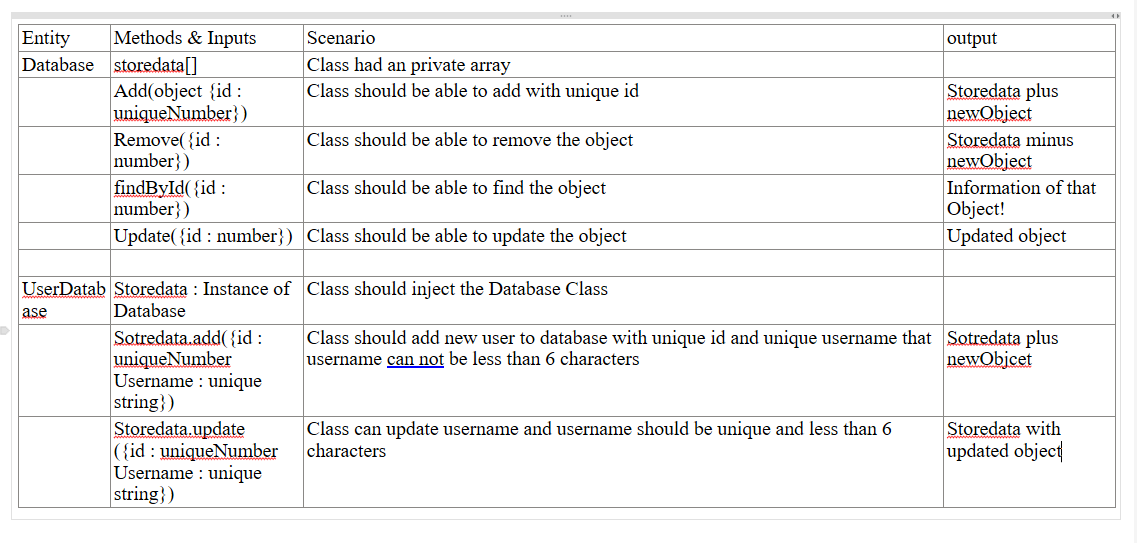
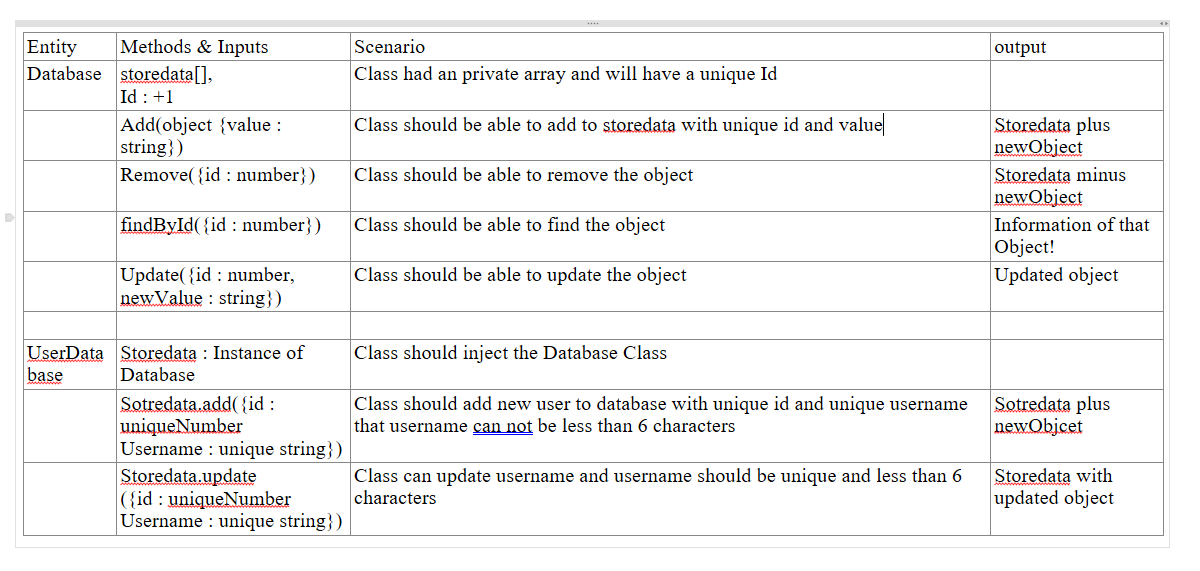
domain model updated!

Changed region(s): [[0.0, 0.0, 0.985, 0.9429]]

diff --git a/src/database.js b/src/database.js
@@ -57,15 +57,15 @@ class Database {
 
 export { Database }
 
-const mydata = new Database()
+// const mydata = new Database()
 
-mydata.add('farshad')
-mydata.add('will')
-mydata.add('nathan')
-mydata.remove(3)
-mydata.add()
-mydata.findById(11)
-mydata.update(4, 'Azam')
-mydata.add('shahi')
-mydata.update(5, 'shaian')
-console.log(mydata.myDatabase)
+// mydata.add('farshad')
+// mydata.add('will')
+// mydata.add('nathan')
+// mydata.remove(3)
+// mydata.add()
+// mydata.findById(11)
+// mydata.update(4, 'Azam')
+// mydata.add('shahi')
+// mydata.update(5, 'shaian')
+// console.log(mydata.myDatabase)

diff --git a/src/user-database.js b/src/user-database.js
@@ -1,0 +1,11 @@
+import { Database } from "./database.js";
+
+class UserDatabase {
+  constructor () {
+    this.storeData = new Database()
+  }
+}
+
+
+const user = new UserDatabase()
+console.log(user)
